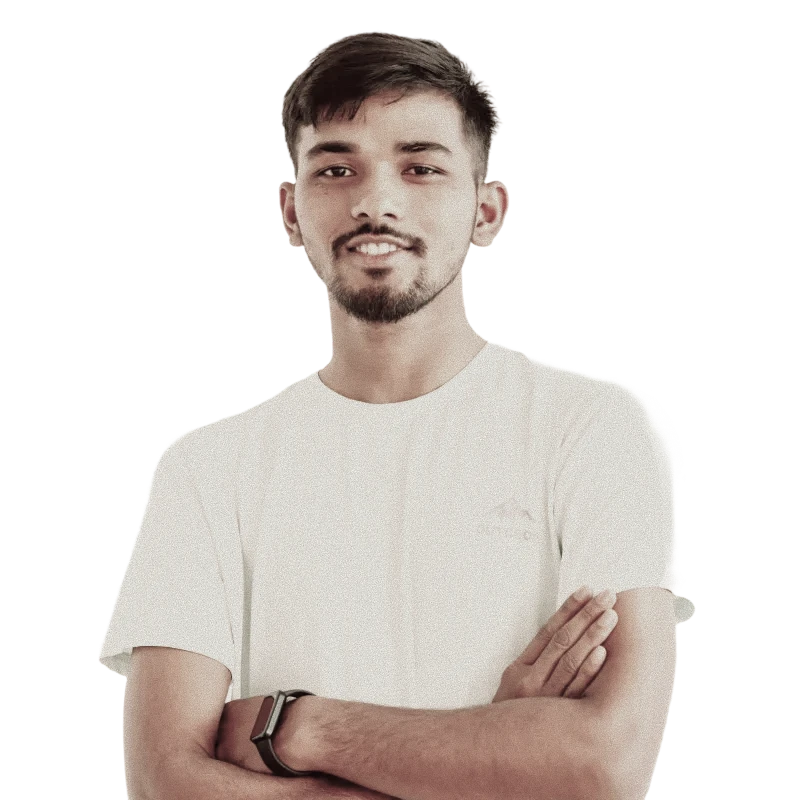
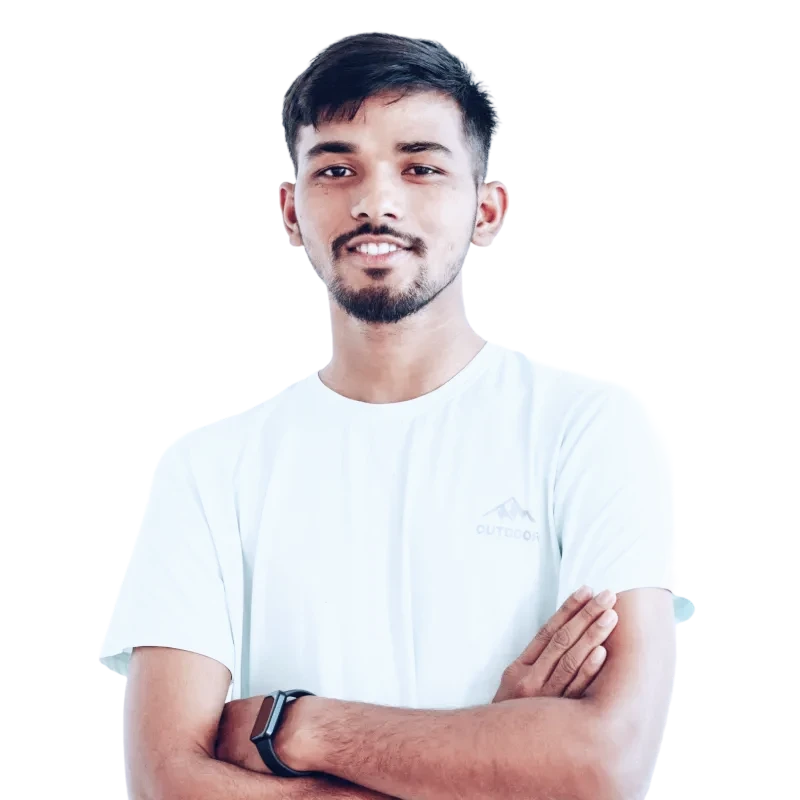
Update color variables and refine styles in CSS files
- Replaced stone color variables with slate color variables in style.css and tailwind.css for a more cohesive color scheme.
- Adjusted mix-blend mode in card ribbon styles for improved visual effects.
- Updated binary image asset for profile to enhance presentation.

diff --git a/src/.vitepress/theme/css/style.css b/src/.vitepress/theme/css/style.css
@@ -6,26 +6,23 @@
   :root, :host {
     --ks-font-sans: "Instrument Sans", sans-serif;
     --ks-font-mono: "Instrument Sans", sans-serif;
-    --ks-color-blue-600: oklch(54.6% 0.245 262.881);
     --ks-color-blue-900: oklch(37.9% 0.146 265.522);
-    --ks-color-zinc-100: oklch(96.7% 0.001 286.375);
-    --ks-color-zinc-200: oklch(92% 0.004 286.32);
+    --ks-color-slate-50: oklch(98.4% 0.003 247.858);
+    --ks-color-slate-100: oklch(96.8% 0.007 247.896);
+    --ks-color-slate-200: oklch(92.9% 0.013 255.508);
+    --ks-color-slate-300: oklch(86.9% 0.022 252.894);
+    --ks-color-slate-400: oklch(70.4% 0.04 256.788);
+    --ks-color-slate-500: oklch(55.4% 0.046 257.417);
+    --ks-color-slate-600: oklch(44.6% 0.043 257.281);
+    --ks-color-slate-700: oklch(37.2% 0.044 257.287);
+    --ks-color-slate-800: oklch(27.9% 0.041 260.031);
+    --ks-color-slate-900: oklch(20.8% 0.042 265.755);
+    --ks-color-slate-950: oklch(12.9% 0.042 264.695);
     --ks-color-zinc-300: oklch(87.1% 0.006 286.286);
     --ks-color-zinc-400: oklch(70.5% 0.015 286.067);
     --ks-color-zinc-500: oklch(55.2% 0.016 285.938);
     --ks-color-zinc-600: oklch(44.2% 0.017 285.786);
     --ks-color-zinc-800: oklch(27.4% 0.006 286.033);
-    --ks-color-stone-50: oklch(98.5% 0.001 106.423);
-    --ks-color-stone-100: oklch(97% 0.001 106.424);
-    --ks-color-stone-200: oklch(92.3% 0.003 48.717);
-    --ks-color-stone-300: oklch(86.9% 0.005 56.366);
-    --ks-color-stone-400: oklch(70.9% 0.01 56.259);
-    --ks-color-stone-500: oklch(55.3% 0.013 58.071);
-    --ks-color-stone-600: oklch(44.4% 0.011 73.639);
-    --ks-color-stone-700: oklch(37.4% 0.01 67.558);
-    --ks-color-stone-800: oklch(26.8% 0.007 34.298);
-    --ks-color-stone-900: oklch(21.6% 0.006 56.043);
-    --ks-color-stone-950: oklch(14.7% 0.004 49.25);
     --ks-color-black: #000;
     --ks-color-white: #fff;
     --ks-spacing: 0.25rem;
@@ -38,8 +35,6 @@
     --ks-text-sm--line-height: calc(1.25 / 0.875);
     --ks-text-lg: 1.125rem;
     --ks-text-lg--line-height: calc(1.75 / 1.125);
-    --ks-text-2xl: 1.5rem;
-    --ks-text-2xl--line-height: calc(2 / 1.5);
     --ks-text-3xl: 1.875rem;
     --ks-text-3xl--line-height: calc(2.25 / 1.875);
     --ks-text-4xl: 2.25rem;
@@ -50,21 +45,20 @@
     --ks-radius-xl: 0.75rem;
     --ks-radius-3xl: 1.5rem;
     --ks-radius-4xl: 2rem;
-    --ks-blur-md: 12px;
     --ks-blur-2xl: 40px;
     --ks-aspect-video: 16 / 9;
     --ks-default-transition-duration: 150ms;
     --ks-default-transition-timing-function: cubic-bezier(0.4, 0, 0.2, 1);
     --ks-default-font-family: var(--ks-font-sans);
     --ks-default-mono-font-family: var(--ks-font-mono);
-    --ks-color-primary-200: var(--ks-color-stone-200);
-    --ks-color-primary-300: var(--ks-color-stone-300);
-    --ks-color-primary-400: var(--ks-color-stone-400);
-    --ks-color-primary-500: var(--ks-color-stone-500);
-    --ks-color-primary-600: var(--ks-color-stone-600);
-    --ks-color-primary-700: var(--ks-color-stone-700);
-    --ks-color-primary-800: var(--ks-color-stone-800);
-    --ks-color-primary-900: var(--ks-color-stone-900);
+    --ks-color-primary-200: var(--ks-color-slate-200);
+    --ks-color-primary-300: var(--ks-color-slate-300);
+    --ks-color-primary-400: var(--ks-color-slate-400);
+    --ks-color-primary-500: var(--ks-color-slate-500);
+    --ks-color-primary-600: var(--ks-color-slate-600);
+    --ks-color-primary-700: var(--ks-color-slate-700);
+    --ks-color-primary-800: var(--ks-color-slate-800);
+    --ks-color-primary-900: var(--ks-color-slate-900);
   }
 }
 @layer base {
@@ -387,12 +381,6 @@
   .ks\:bg-white {
     background-color: var(--ks-color-white);
   }
-  .ks\:bg-zinc-100\/50 {
-    background-color: var(--ks-color-zinc-100);
-    @supports (color: color-mix(in lab, red, red)) {
-      background-color: color-mix(in oklab, var(--ks-color-zinc-100) 50%, transparent);
-    }
-  }
   .ks\:bg-linear-to-r {
     --tw-gradient-position: to right;
     @supports (background-image: linear-gradient(in lab, red, red)) {
@@ -462,10 +450,6 @@
   .ks\:text-center {
     text-align: center;
   }
-  .ks\:text-2xl {
-    font-size: var(--ks-text-2xl);
-    line-height: var(--tw-leading, var(--ks-text-2xl--line-height));
-  }
   .ks\:text-3xl {
     font-size: var(--ks-text-3xl);
     line-height: var(--tw-leading, var(--ks-text-3xl--line-height));
@@ -510,9 +494,6 @@
   .ks\:text-zinc-600 {
     color: var(--ks-color-zinc-600);
   }
-  .ks\:text-zinc-800 {
-    color: var(--ks-color-zinc-800);
-  }
   .ks\:underline-offset-4 {
     text-underline-offset: 4px;
   }
@@ -522,11 +503,6 @@
   }
   .ks\:ring-zinc-300 {
     --tw-ring-color: var(--ks-color-zinc-300);
-  }
-  .ks\:backdrop-blur-md {
-    --tw-backdrop-blur: blur(var(--ks-blur-md));
-    -webkit-backdrop-filter: var(--tw-backdrop-blur,) var(--tw-backdrop-brightness,) var(--tw-backdrop-contrast,) var(--tw-backdrop-grayscale,) var(--tw-backdrop-hue-rotate,) var(--tw-backdrop-invert,) var(--tw-backdrop-opacity,) var(--tw-backdrop-saturate,) var(--tw-backdrop-sepia,);
-    backdrop-filter: var(--tw-backdrop-blur,) var(--tw-backdrop-brightness,) var(--tw-backdrop-contrast,) var(--tw-backdrop-grayscale,) var(--tw-backdrop-hue-rotate,) var(--tw-backdrop-invert,) var(--tw-backdrop-opacity,) var(--tw-backdrop-saturate,) var(--tw-backdrop-sepia,);
   }
   .ks\:transition {
     transition-property: color, background-color, border-color, outline-color, text-decoration-color, fill, stroke, --tw-gradient-from, --tw-gradient-via, --tw-gradient-to, opacity, box-shadow, transform, translate, scale, rotate, filter, -webkit-backdrop-filter, backdrop-filter, display, content-visibility, overlay, pointer-events;
@@ -551,34 +527,6 @@
   .ks\:\*\:p-8 {
     :is(& > *) {
       padding: calc(var(--ks-spacing) * 8);
-    }
-  }
-  .ks\:not-first\:border {
-    &:not(*:first-child) {
-      border-style: var(--tw-border-style);
-      border-width: 1px;
-    }
-  }
-  .ks\:not-first\:border-white\/60 {
-    &:not(*:first-child) {
-      border-color: var(--ks-color-white);
-      @supports (color: color-mix(in lab, red, red)) {
-        border-color: color-mix(in oklab, var(--ks-color-white) 60%, transparent);
-      }
-    }
-  }
-  .ks\:not-first\:ring {
-    &:not(*:first-child) {
-      --tw-ring-shadow: var(--tw-ring-inset,) 0 0 0 calc(1px + var(--tw-ring-offset-width)) var(--tw-ring-color, currentcolor);
-      box-shadow: var(--tw-inset-shadow), var(--tw-inset-ring-shadow), var(--tw-ring-offset-shadow), var(--tw-ring-shadow), var(--tw-shadow);
-    }
-  }
-  .ks\:not-first\:ring-zinc-400\/20 {
-    &:not(*:first-child) {
-      --tw-ring-color: var(--ks-color-zinc-400);
-      @supports (color: color-mix(in lab, red, red)) {
-        --tw-ring-color: color-mix(in oklab, var(--ks-color-zinc-400) 20%, transparent);
-      }
     }
   }
   .ks\:group-first\:text-lg {
@@ -645,16 +593,6 @@
   .ks\:sm\:grid-cols-2 {
     @media (width >= 40rem) {
       grid-template-columns: repeat(2, minmax(0, 1fr));
-    }
-  }
-  .ks\:sm\:grid-cols-4 {
-    @media (width >= 40rem) {
-      grid-template-columns: repeat(4, minmax(0, 1fr));
-    }
-  }
-  .ks\:sm\:gap-10 {
-    @media (width >= 40rem) {
-      gap: calc(var(--ks-spacing) * 10);
     }
   }
   .ks\:md\:grid-cols-2 {
@@ -749,7 +687,7 @@
             @supports (color: color-mix(in lab, red, red)) {
               color: color-mix(in oklab, var(--ks-color-white) 40%, transparent);
             }
-            mix-blend-mode: difference;
+            mix-blend-mode: color-dodge;
             writing-mode: sideways-lr;
           }
         }
@@ -1082,42 +1020,6 @@
   inherits: false;
   initial-value: 0 0 #0000;
 }
-@property --tw-backdrop-blur {
-  syntax: "*";
-  inherits: false;
-}
-@property --tw-backdrop-brightness {
-  syntax: "*";
-  inherits: false;
-}
-@property --tw-backdrop-contrast {
-  syntax: "*";
-  inherits: false;
-}
-@property --tw-backdrop-grayscale {
-  syntax: "*";
-  inherits: false;
-}
-@property --tw-backdrop-hue-rotate {
-  syntax: "*";
-  inherits: false;
-}
-@property --tw-backdrop-invert {
-  syntax: "*";
-  inherits: false;
-}
-@property --tw-backdrop-opacity {
-  syntax: "*";
-  inherits: false;
-}
-@property --tw-backdrop-saturate {
-  syntax: "*";
-  inherits: false;
-}
-@property --tw-backdrop-sepia {
-  syntax: "*";
-  inherits: false;
-}
 @property --tw-duration {
   syntax: "*";
   inherits: false;
@@ -1130,11 +1032,6 @@
   syntax: "<percentage>";
   inherits: false;
   initial-value: 100%;
-}
-@property --tw-border-style {
-  syntax: "*";
-  inherits: false;
-  initial-value: solid;
 }
 @property --tw-blur {
   syntax: "*";
@@ -1213,6 +1110,47 @@
   syntax: "*";
   inherits: false;
 }
+@property --tw-border-style {
+  syntax: "*";
+  inherits: false;
+  initial-value: solid;
+}
+@property --tw-backdrop-blur {
+  syntax: "*";
+  inherits: false;
+}
+@property --tw-backdrop-brightness {
+  syntax: "*";
+  inherits: false;
+}
+@property --tw-backdrop-contrast {
+  syntax: "*";
+  inherits: false;
+}
+@property --tw-backdrop-grayscale {
+  syntax: "*";
+  inherits: false;
+}
+@property --tw-backdrop-hue-rotate {
+  syntax: "*";
+  inherits: false;
+}
+@property --tw-backdrop-invert {
+  syntax: "*";
+  inherits: false;
+}
+@property --tw-backdrop-opacity {
+  syntax: "*";
+  inherits: false;
+}
+@property --tw-backdrop-saturate {
+  syntax: "*";
+  inherits: false;
+}
+@property --tw-backdrop-sepia {
+  syntax: "*";
+  inherits: false;
+}
 @layer properties {
   @supports ((-webkit-hyphens: none) and (not (margin-trim: inline))) or ((-moz-orient: inline) and (not (color:rgb(from red r g b)))) {
     *, ::before, ::after, ::backdrop {
@@ -1254,19 +1192,9 @@
       --tw-ring-offset-width: 0px;
       --tw-ring-offset-color: #fff;
       --tw-ring-offset-shadow: 0 0 #0000;
-      --tw-backdrop-blur: initial;
-      --tw-backdrop-brightness: initial;
-      --tw-backdrop-contrast: initial;
-      --tw-backdrop-grayscale: initial;
-      --tw-backdrop-hue-rotate: initial;
-      --tw-backdrop-invert: initial;
-      --tw-backdrop-opacity: initial;
-      --tw-backdrop-saturate: initial;
-      --tw-backdrop-sepia: initial;
       --tw-duration: initial;
       --tw-text-shadow-color: initial;
       --tw-text-shadow-alpha: 100%;
-      --tw-border-style: solid;
       --tw-blur: initial;
       --tw-brightness: initial;
       --tw-contrast: initial;
@@ -1286,6 +1214,16 @@
       --tw-skew-x: initial;
       --tw-skew-y: initial;
       --tw-tracking: initial;
+      --tw-border-style: solid;
+      --tw-backdrop-blur: initial;
+      --tw-backdrop-brightness: initial;
+      --tw-backdrop-contrast: initial;
+      --tw-backdrop-grayscale: initial;
+      --tw-backdrop-hue-rotate: initial;
+      --tw-backdrop-invert: initial;
+      --tw-backdrop-opacity: initial;
+      --tw-backdrop-saturate: initial;
+      --tw-backdrop-sepia: initial;
     }
   }
 }

diff --git a/src/.vitepress/theme/css/tailwind.css b/src/.vitepress/theme/css/tailwind.css
@@ -5,17 +5,17 @@
   --font-sans: "Instrument Sans", sans-serif;
   --font-mono: "Instrument Sans", sans-serif;
 
-  --color-primary-50: var(--ks-color-stone-50);
-  --color-primary-100: var(--ks-color-stone-100);
-  --color-primary-200: var(--ks-color-stone-200);
-  --color-primary-300: var(--ks-color-stone-300);
-  --color-primary-400: var(--ks-color-stone-400);
-  --color-primary-500: var(--ks-color-stone-500);
-  --color-primary-600: var(--ks-color-stone-600);
-  --color-primary-700: var(--ks-color-stone-700);
-  --color-primary-800: var(--ks-color-stone-800);
-  --color-primary-900: var(--ks-color-stone-900);
-  --color-primary-950: var(--ks-color-stone-950);
+  --color-primary-50: var(--ks-color-slate-50);
+  --color-primary-100: var(--ks-color-slate-100);
+  --color-primary-200: var(--ks-color-slate-200);
+  --color-primary-300: var(--ks-color-slate-300);
+  --color-primary-400: var(--ks-color-slate-400);
+  --color-primary-500: var(--ks-color-slate-500);
+  --color-primary-600: var(--ks-color-slate-600);
+  --color-primary-700: var(--ks-color-slate-700);
+  --color-primary-800: var(--ks-color-slate-800);
+  --color-primary-900: var(--ks-color-slate-900);
+  --color-primary-950: var(--ks-color-slate-950);
 }
 
 @layer components {
@@ -36,7 +36,7 @@
           @apply ks:w-10 ks:-ml-4 ks:relative ks:z-20 ks:origin-bottom-right ks:-skew-x-20 ks:h-full ks:bg-linear-to-t ks:from-primary-800 ks:from-5% ks:via-20% ks:via-primary-600 ks:to-100% ks:to-primary-700 ks:rounded-br-sm ks:overflow-clip ks:flex ks:items-center ks:justify-center;
           
           .ks\:card-ribbon-right-text {
-            @apply ks:[writing-mode:sideways-lr] ks:text-white/40 ks:tracking-wider ks:text-nowrap ks:mix-blend-difference;
+            @apply ks:[writing-mode:sideways-lr] ks:text-white/40 ks:tracking-wider ks:text-nowrap ks:mix-blend-color-dodge;
           }
         }
       }
